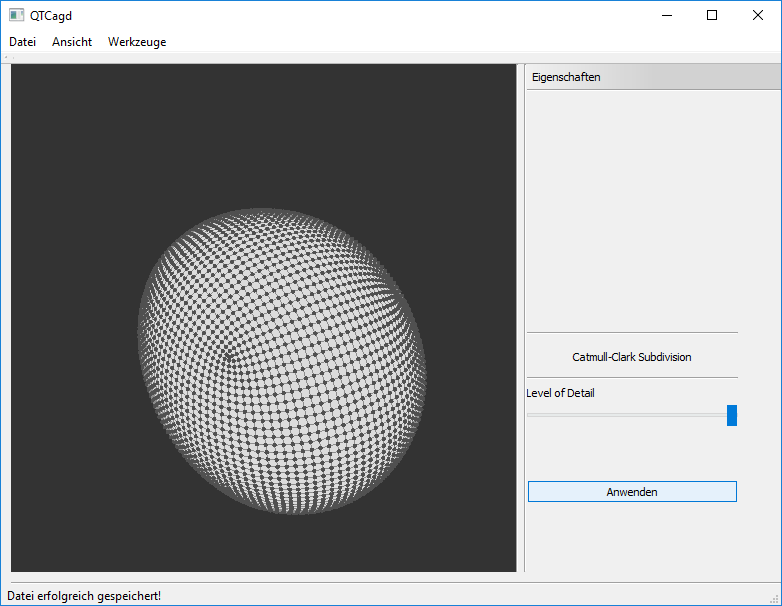
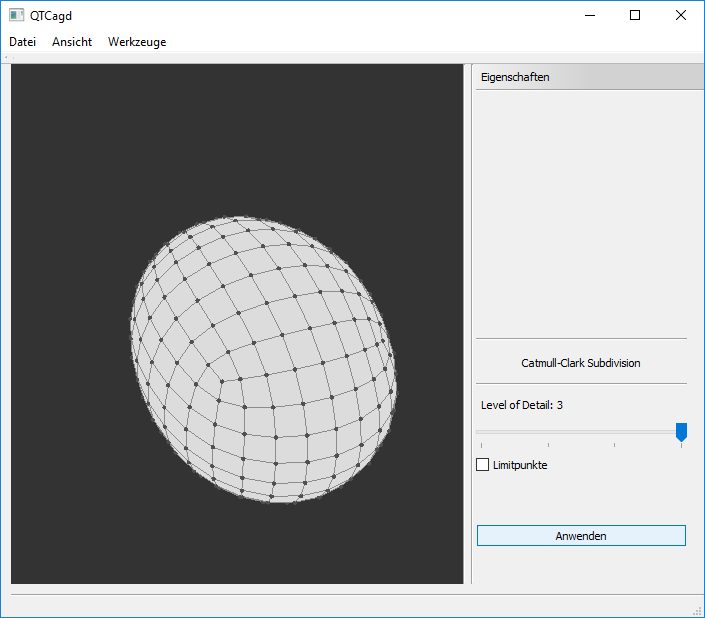
Doku: Limitpunkte und Smoothing

Changed region(s): [[0.0, 0.0, 1.0, 1.0], [0.156, 0.3267, 0.5617, 0.8614]]

diff --git a/Docs/Protokoll/content/anleitung.tex b/Docs/Protokoll/content/anleitung.tex
@@ -101,13 +101,37 @@ Der Button "`Anwenden"' unterteilt das Mesh (siehe Abb.~\ref{fig:MeshCatmullClar
 	\label{fig:MeshCatmullClark}
 \end{figure}
 
+\subsection{Limitpunkte Anzeigen}
+Im "`Catmull-Clark Subdivision"' Menü können die Limitpunkte angezeigt werden indem die Checkbox "`Limitpunkte"' gesetzt wird (siehe Abb.~\ref{fig:Limitpunkte}).\\
+Wenn die Checkbox "`Limitpunkte"' gesetzt ist können keine Objekte geändert werden.
+
+\begin{figure}[H]
+	\centering
+	\includegraphics[scale=0.5]{content/pictures/9-Limitpunkte}
+	\caption{}
+	\label{fig:Limitpunkte}
+\end{figure}
+
+\subsection{Smoothing}
+Unter "`Werkzeuge->Glättung"' wird das "`Glättung"' Menü geöffnet.\\
+Der Slider "`Glättung"' glättet das Mesh und zeigt das Mesh in dem eingestellten Glättungs-Level in Prozent an.\\
+Der Button "`Anwenden"' Übernimmt das geglättete Mesh (siehe Abb.~\ref{fig:Smoothing}).\\
+Wenn der Slider "`Glättung"' einen Wert grö\ss{}er als Null hat können keine Objekte geändert werden.
+
+\begin{figure}[H]
+	\centering
+	\includegraphics[scale=0.5]{content/pictures/10-Smoothing}
+	\caption{}
+	\label{fig:Smoothing}
+\end{figure}
+
 \subsection{Konsistenzprüfung und Statistik}
 Mit der Taste "`T"' kann ein Mesh auf Fehler untersucht werden und die Statistik angezeigt werden (siehe Abb.~\ref{fig:TestStatistik}).\\
 Au\ss{}erdem wird nach jeder Iteration Catmull-Clark automatisch auf Fehler untersucht.
 
 \begin{figure}[H]
 	\centering
-	\includegraphics[scale=0.5]{content/pictures/9-TestStatistik}
+	\includegraphics[scale=0.5]{content/pictures/11-TestStatistik}
 	\caption{Konsistenzprüfung und Statistik für ein Dreieck}
 	\label{fig:TestStatistik}
 \end{figure}

diff --git a/Docs/Protokoll/content/Auswertung.tex b/Docs/Protokoll/content/Auswertung.tex
@@ -24,6 +24,6 @@
 \section{Ausblick}
 \label{chap:Ausblick}
 \input{content/ausblick.tex}
-\newpage
+
 \section{Anleitung}
 \input{content/anleitung.tex}
